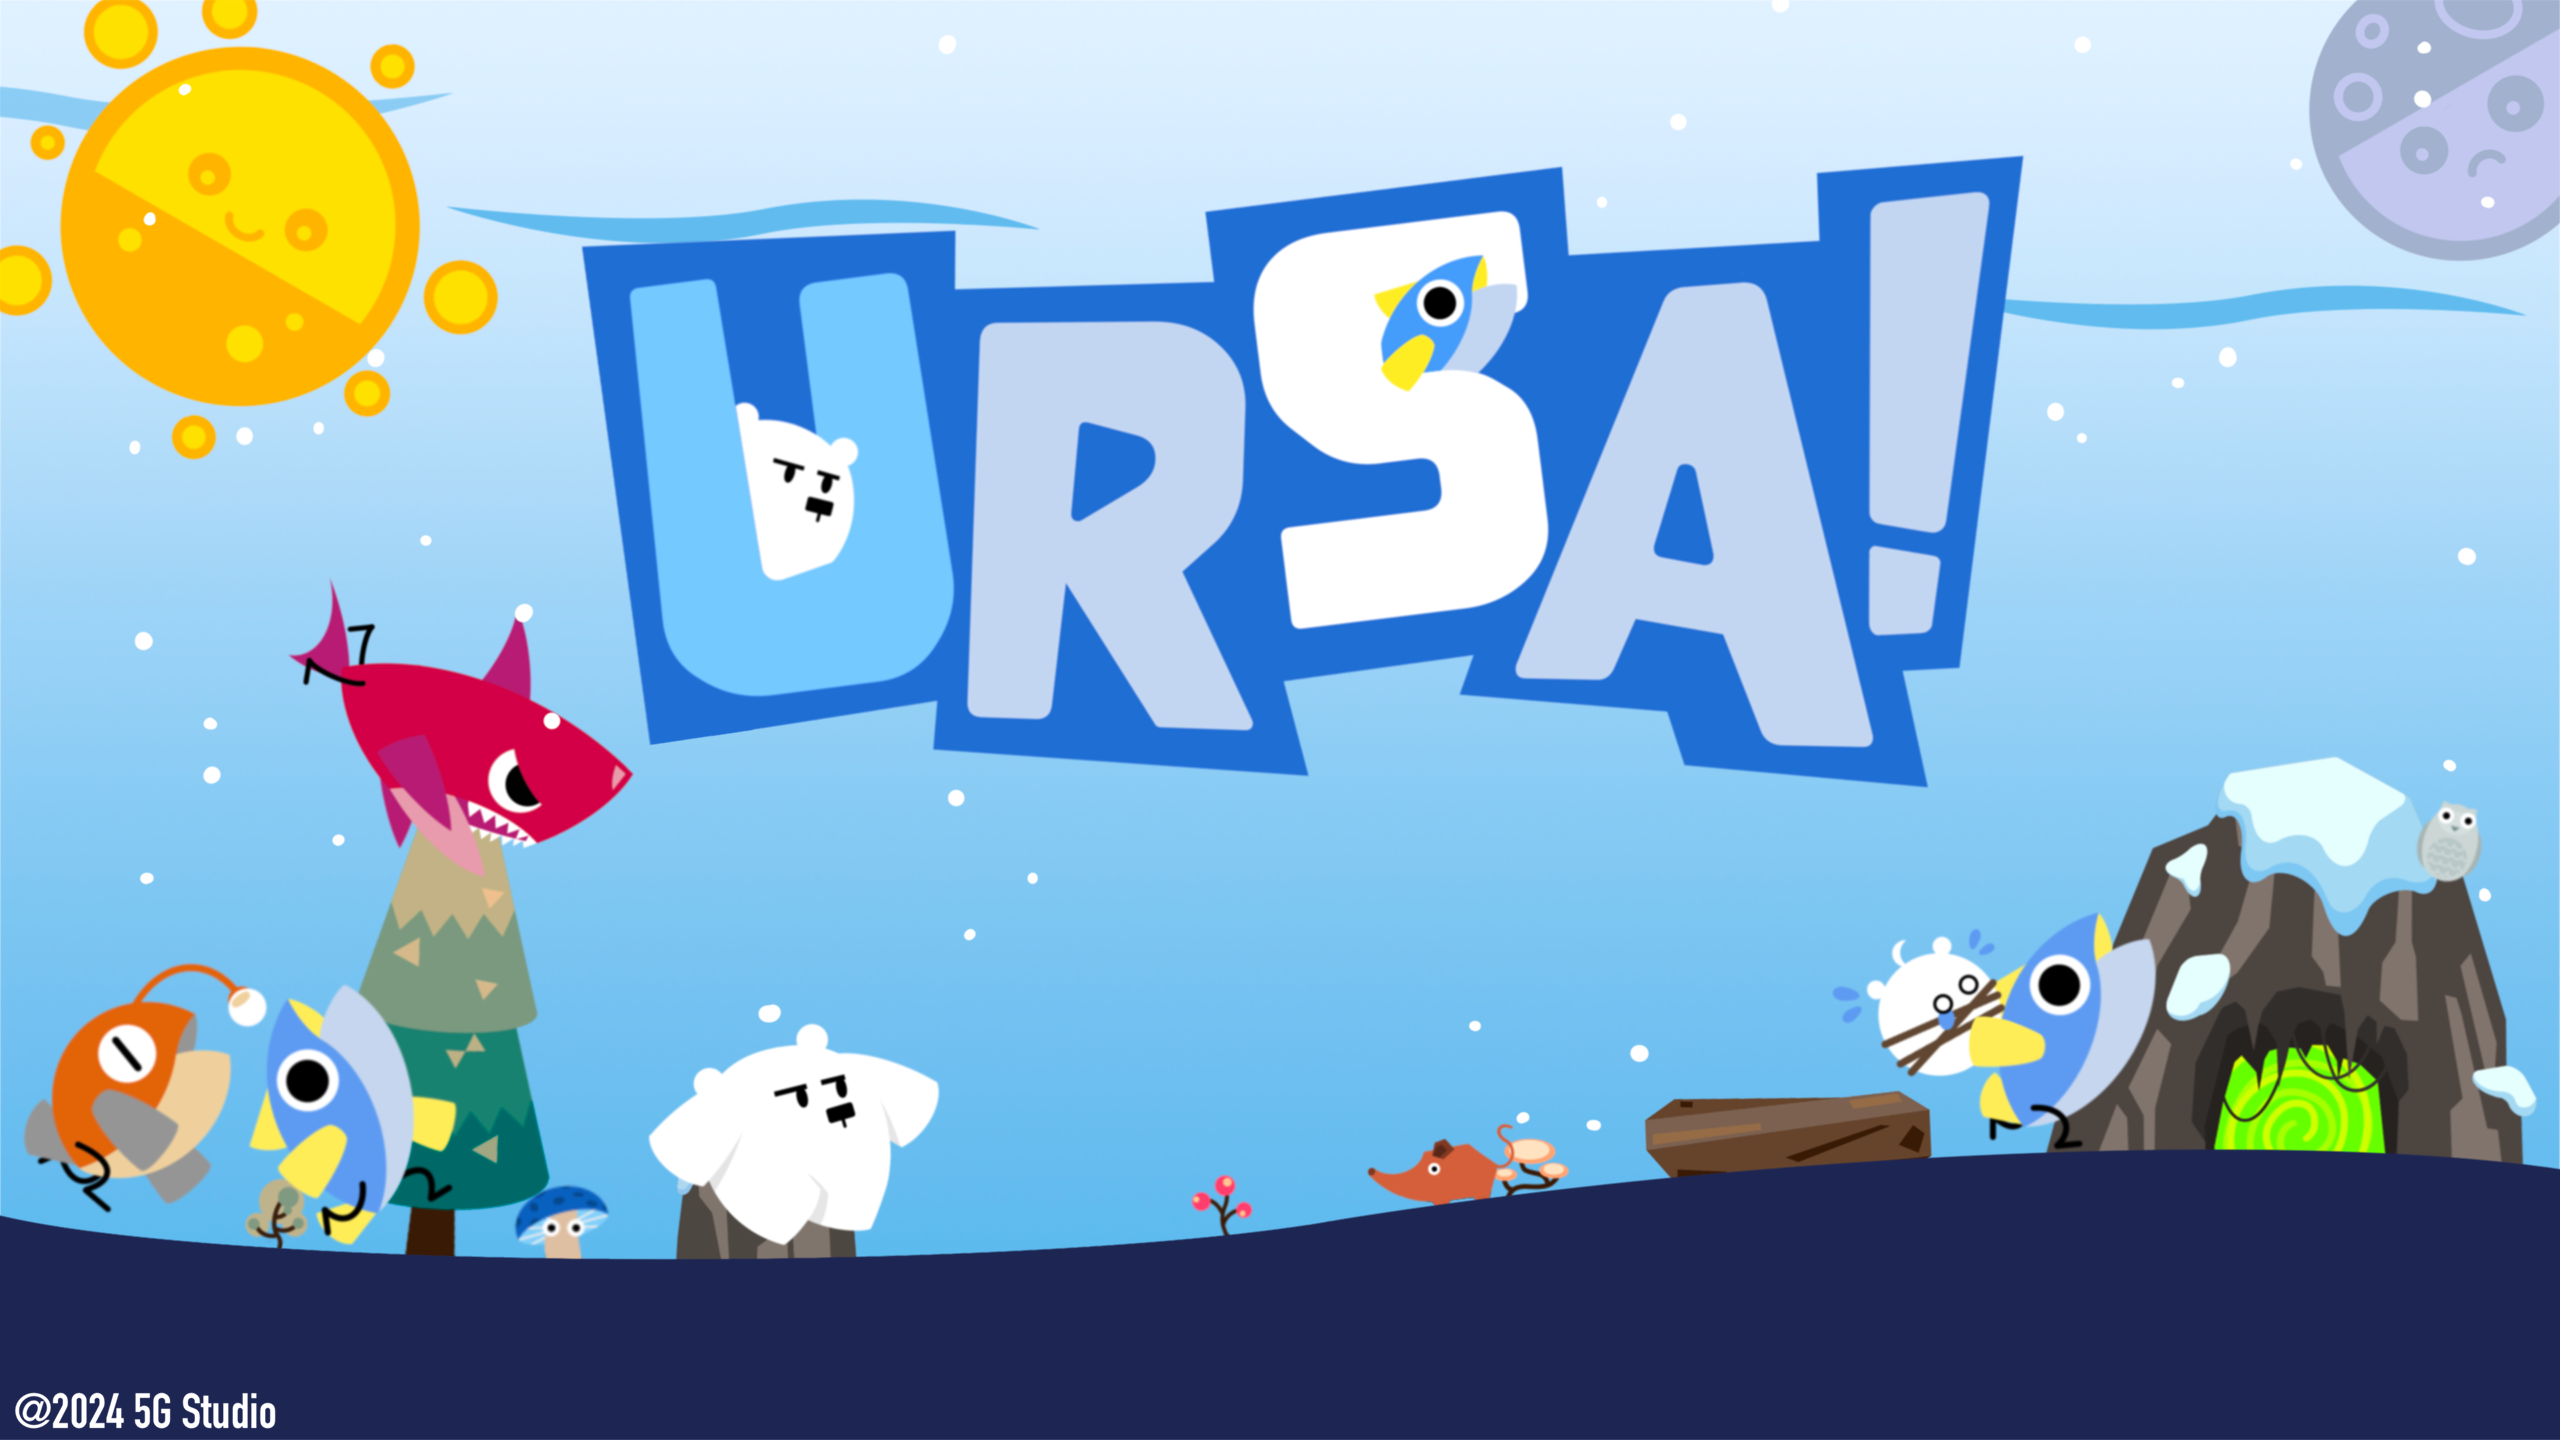
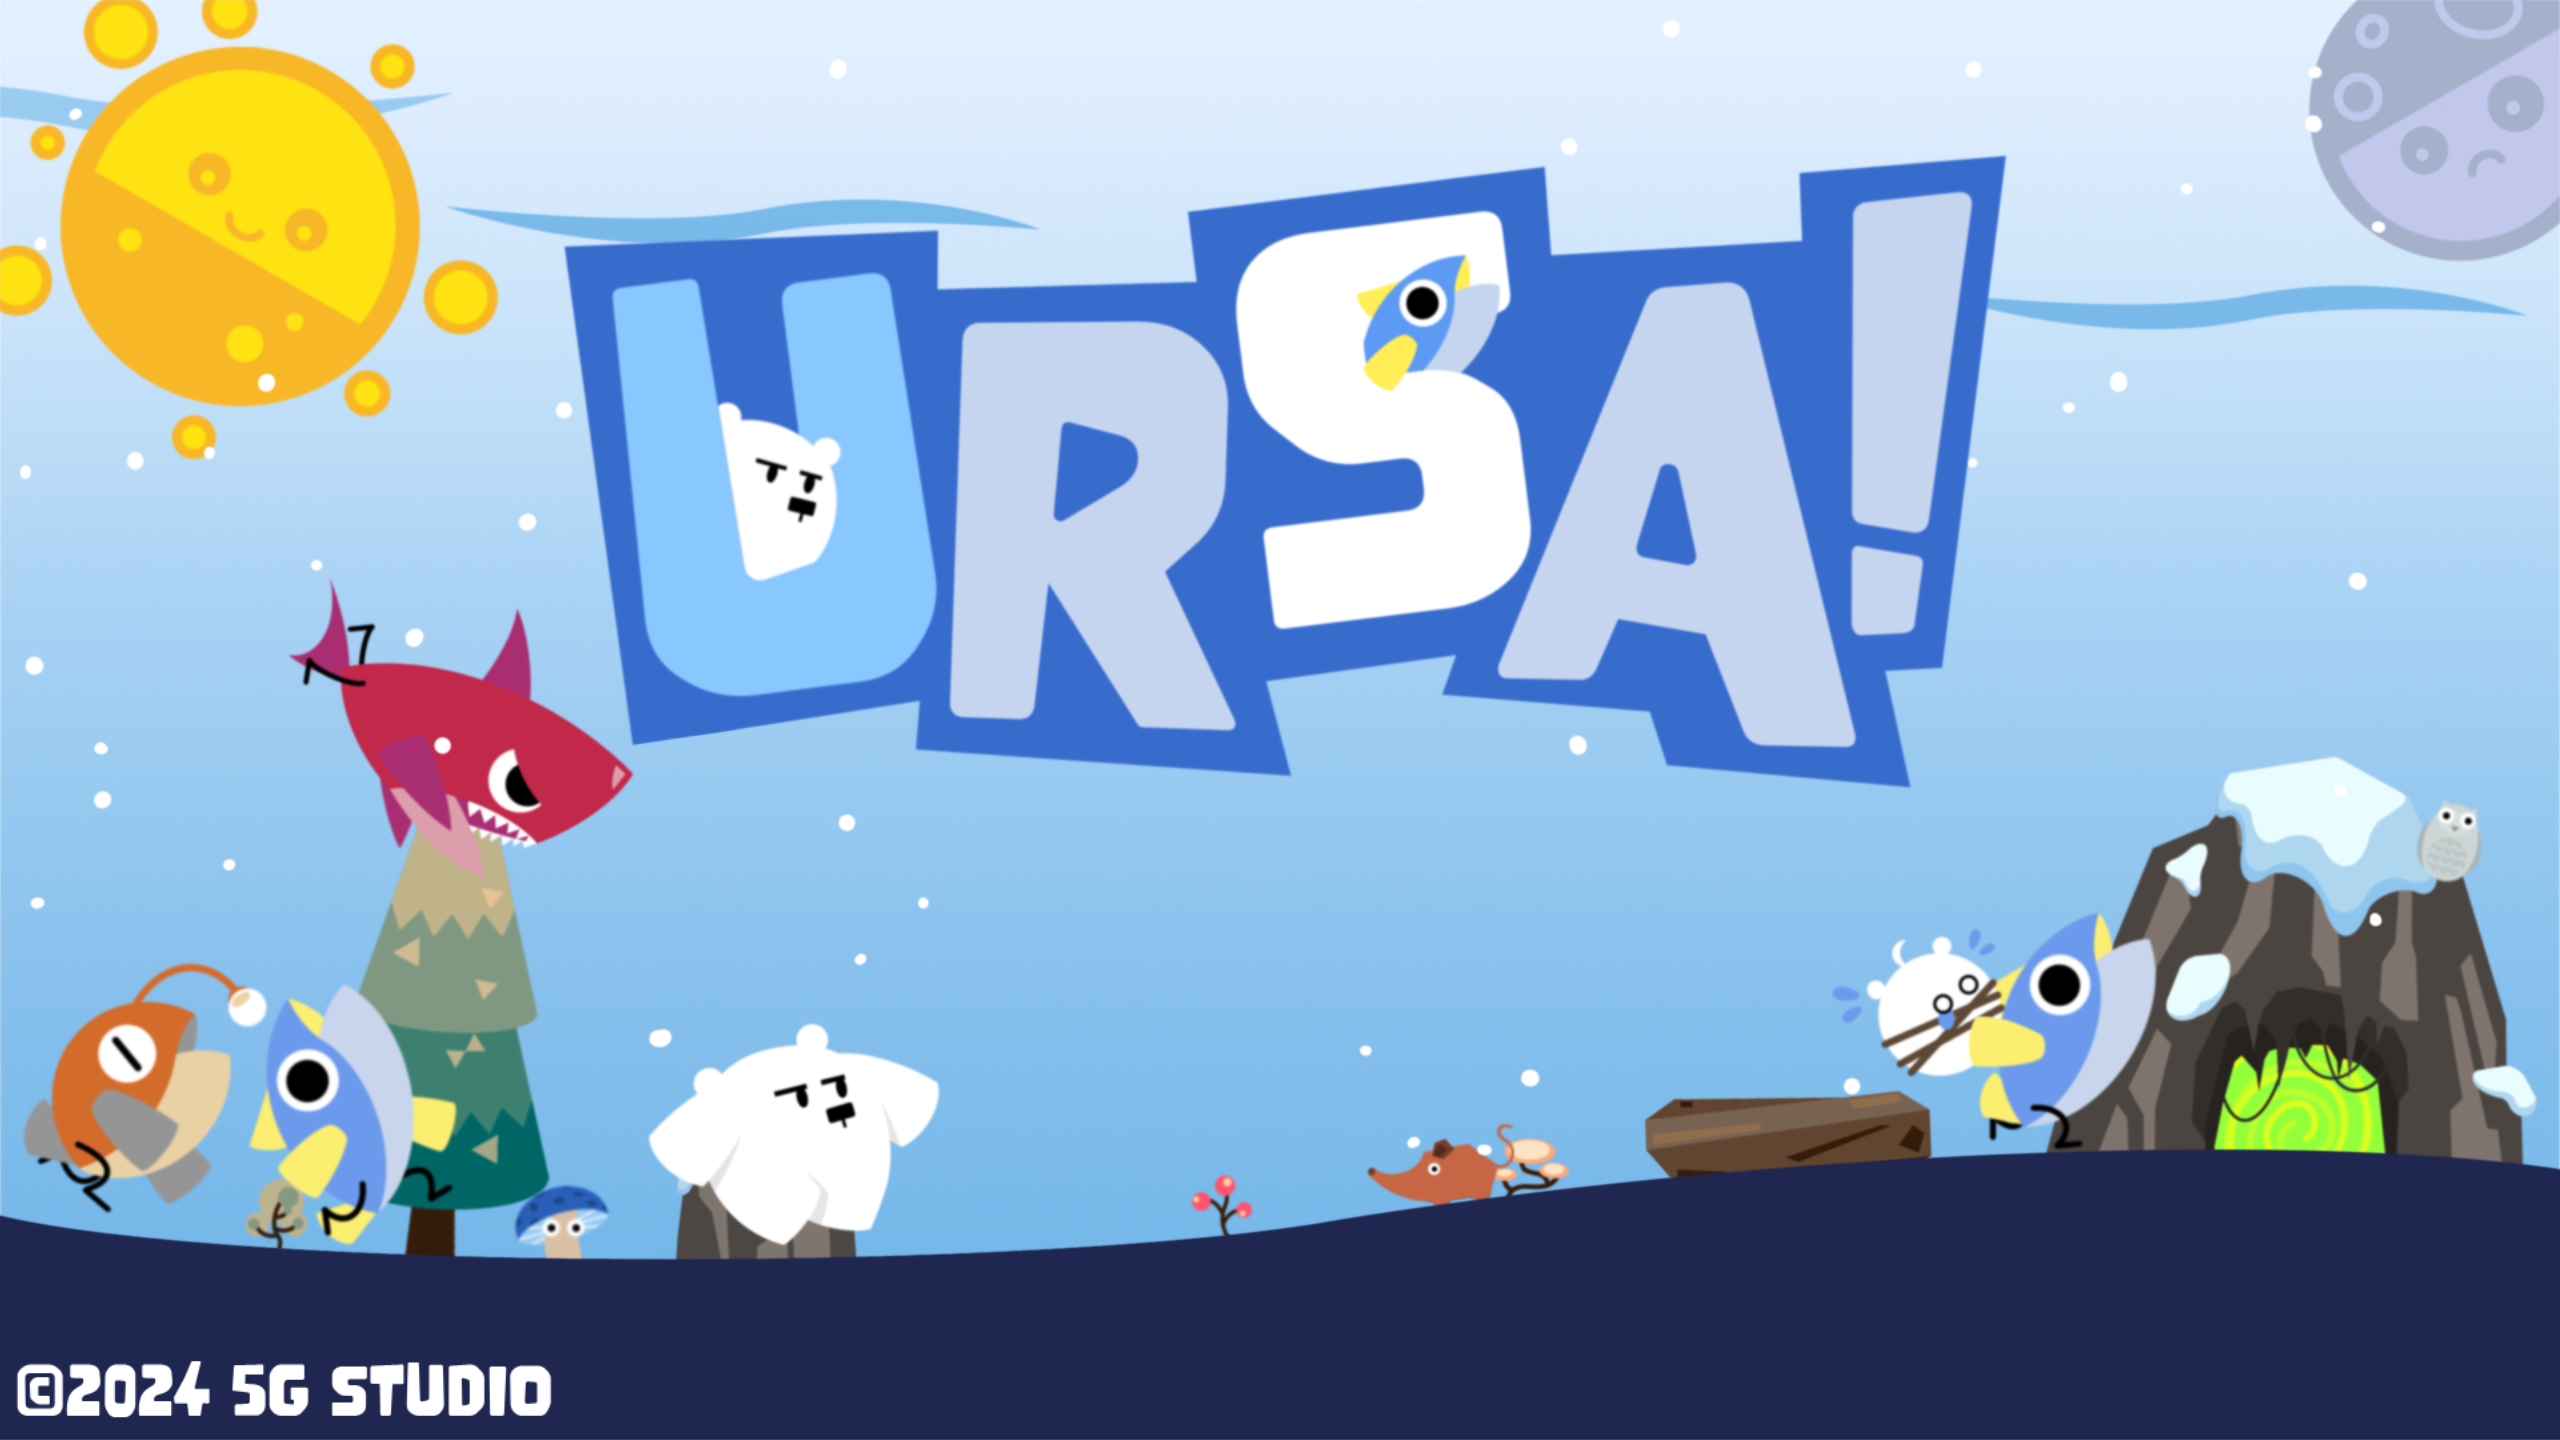
Home screen Update

diff --git a/core/src/edu/cornell/gdiac/physics/LevelSelector.java b/core/src/edu/cornell/gdiac/physics/LevelSelector.java
@@ -37,7 +37,7 @@ public class LevelSelector implements Screen, InputProcessor, ControllerListener
     /** The current position of Ursa */
     private Vector2 ursaPos;
     /** The drawing scale of Ursa */
-    private final float ursaScale = 0.4f;
+    private final float ursaScale = 0.6f;
     /** The direction Ursa is facing (1 for right, -1 for left) */
     private float direction = 1;
     /** How far Ursa can move in one update loop */

diff --git a/core/src/edu/cornell/gdiac/physics/HomeScreen.java b/core/src/edu/cornell/gdiac/physics/HomeScreen.java
@@ -73,7 +73,7 @@ public class HomeScreen implements Screen, InputProcessor, ControllerListener {
         }
 
         if(isAnimatingHomeScreen && time % 2 == 0) {
-            if(homeScreenFilm.getFrame() == 42) {
+            if(homeScreenFilm.getFrame() == 35) {
                 isAnimatingHomeScreen = false;
                 return;
             }
